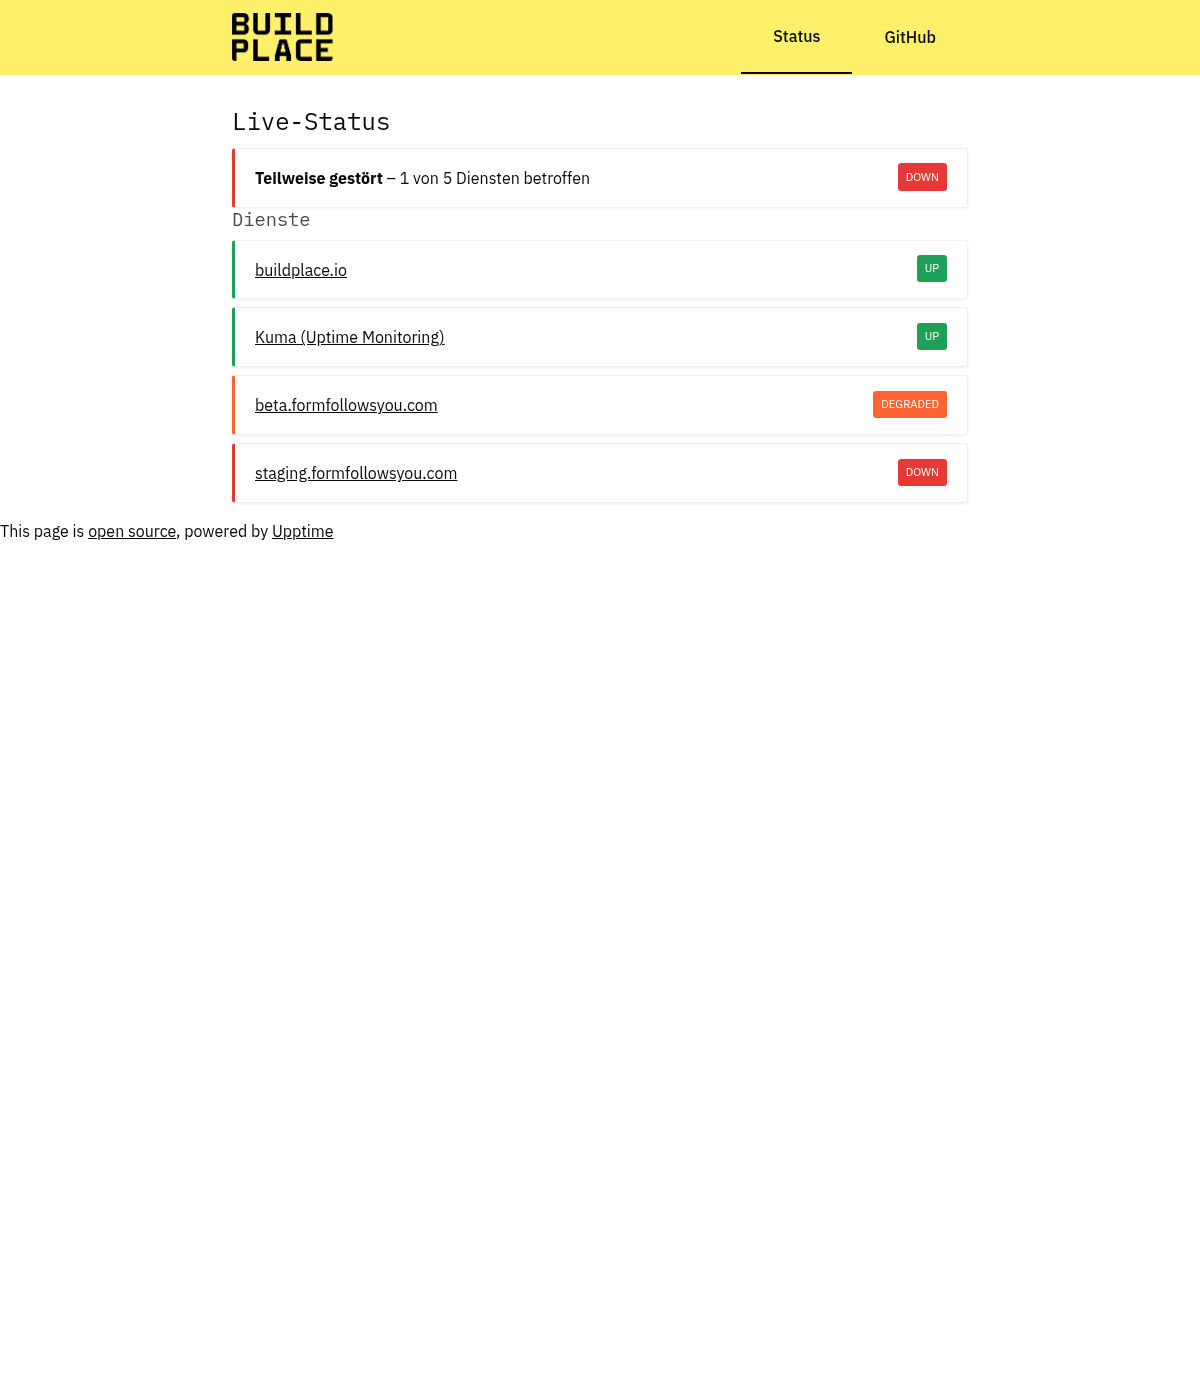
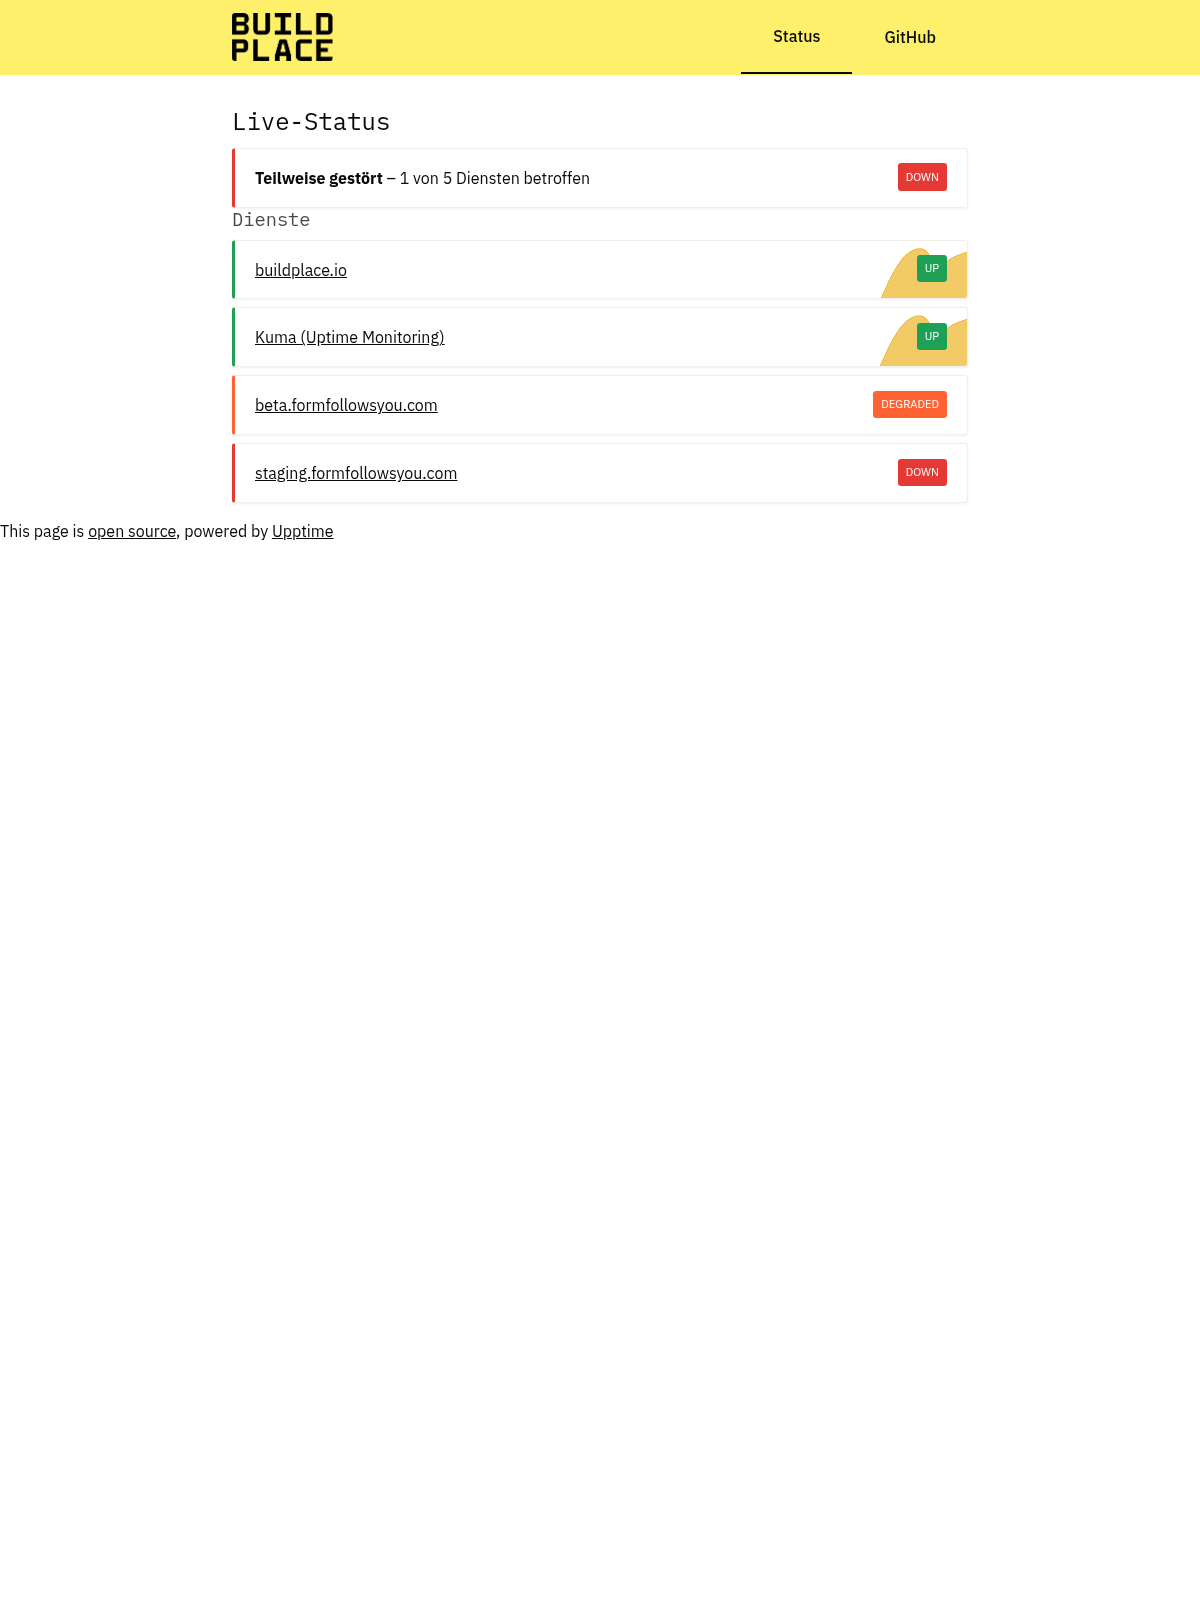
fix: load theme via GitHub Pages (nosniff) + yellow graph curves

diff --git a/assets/buildplace-theme.css b/assets/buildplace-theme.css
@@ -143,3 +143,31 @@ article h3 {
   font-family: 'IBM Plex Mono', ui-monospace, SFMono-Regular, Menlo, monospace;
   font-weight: 500;
 }
+
+/* ---------- Startseiten-Graphen (PNG) in Buildplace-Gelb ----------
+   Die von @upptime/graphs generierten PNGs sind teal (#89e0cf/#1abc9c).
+   Gefiltert wird NUR das Hintergrundbild (Pseudo-Element) – Text und
+   Status-Ränder der Karte bleiben unverändert. */
+article.graph {
+  position: relative;
+  overflow: hidden;
+  background-image: none !important; /* Original (teal) verstecken */
+}
+article.graph::before {
+  content: "";
+  position: absolute;
+  top: 0;
+  right: 0;
+  bottom: 0;
+  left: 0;
+  background-image: var(--background);
+  background-size: contain;
+  background-repeat: no-repeat;
+  background-position: center right;
+  filter: hue-rotate(-113deg) saturate(1.6);
+  pointer-events: none;
+}
+article.graph > * {
+  position: relative;
+  z-index: 1;
+}
